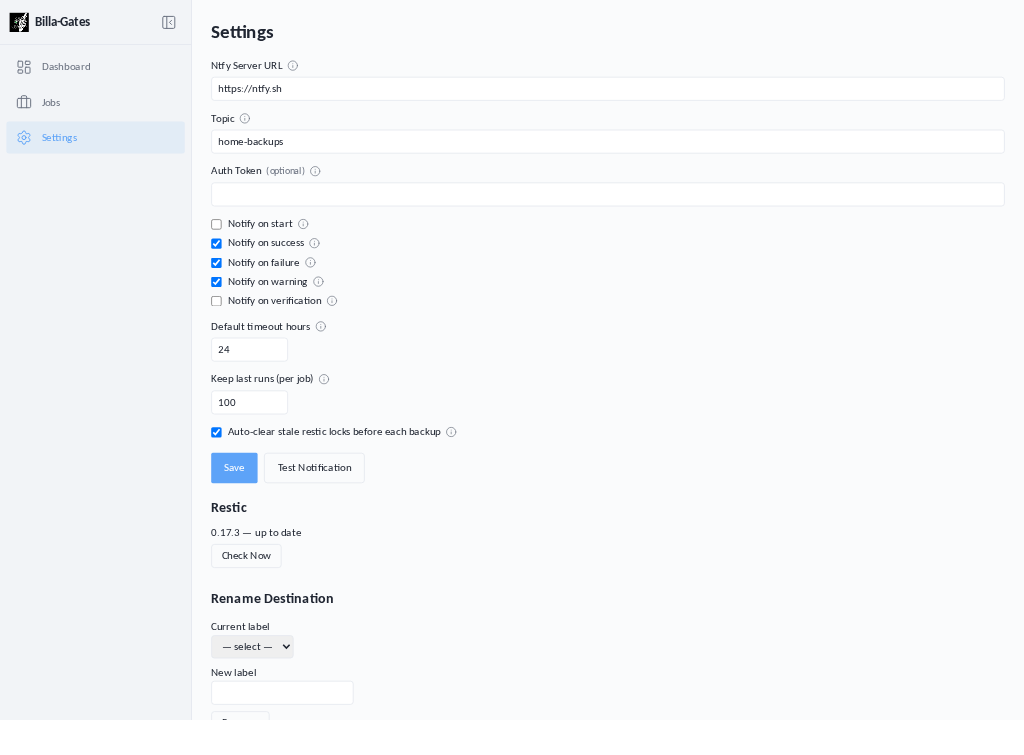
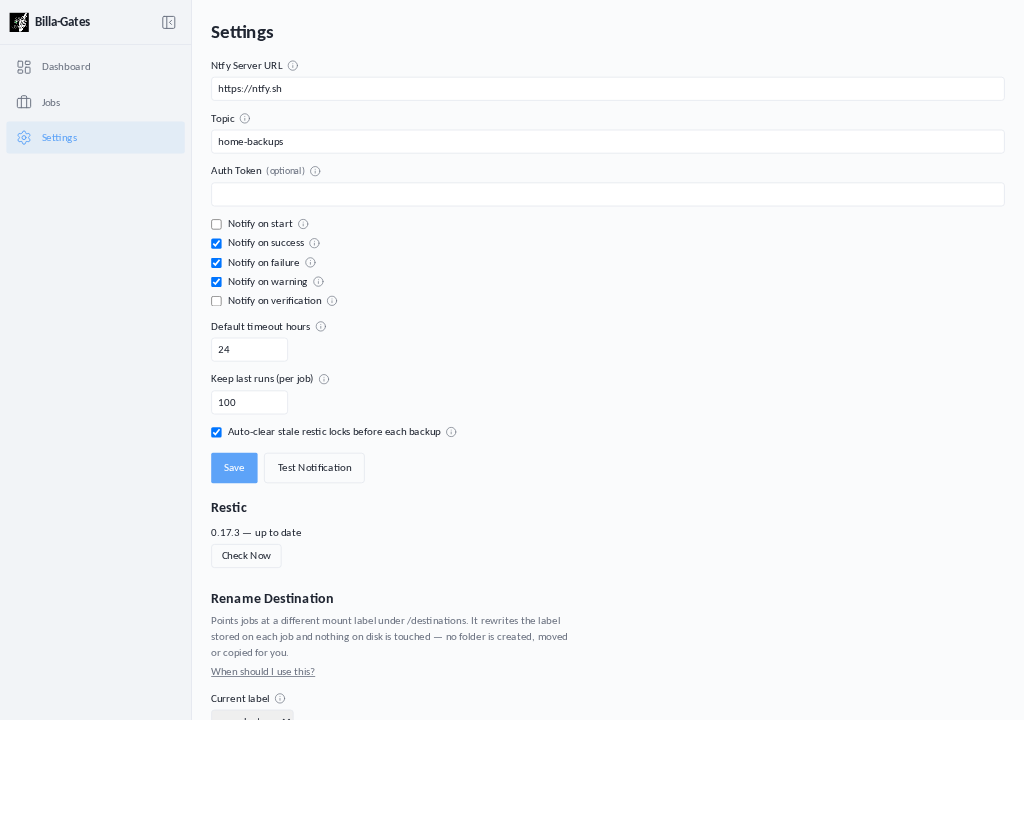
add documentation to rename dest option in settings

Changed region(s): [[0.1875, 0.0305, 0.5625, 0.9139], [0.0, 0.0, 0.0938, 0.1828]]

diff --git a/frontend/src/pages/Settings.tsx b/frontend/src/pages/Settings.tsx
@@ -63,6 +63,17 @@ const HELP: Record<string, FieldHelp> = {
     description:
       'Runs restic unlock at the start of every backup so a lock left behind by an abrupt termination (OOM, container restart) does not block all future runs.',
   },
+  renameOldLabel: {
+    label: 'Current label',
+    description:
+      'The mount label the jobs point at today. Only labels mounted right now are listed, so a drive that has already been unplugged does not appear here.',
+  },
+  renameNewLabel: {
+    label: 'New label',
+    description:
+      'The mount label those jobs should point at from now on. It has to be mounted under /destinations, and must be one folder name — no slashes.',
+    example: 'wd-4tb',
+  },
 }
 
 export default function Settings() {
@@ -90,6 +101,9 @@ export default function Settings() {
   const [newLabel, setNewLabel] = useState('')
   const [renameResult, setRenameResult] = useState<string | null>(null)
   const [renameError, setRenameError] = useState<string | null>(null)
+  // The long-form help is collapsed; the one line that stops the destructive
+  // misreading ("it moves my data") is rendered unconditionally above it.
+  const [renameHelpOpen, setRenameHelpOpen] = useState(false)
   // Delay ntfy form rendering so rename section is findable before ntfy labels appear
   const [ntfyVisible, setNtfyVisible] = useState(false)
 
@@ -390,17 +404,119 @@ export default function Settings() {
         )}
 
         <div>
-          <h2 className="text-lg font-semibold mb-3">Rename Destination</h2>
-          <div className="space-y-2">
+          <h2 className="text-lg font-semibold mb-1">Rename Destination</h2>
+          {/* The action's name reads like a filesystem operation, which it is
+              not — it only repoints job rows at another mount label. Anyone
+              who reads it the other way loses nothing on disk but breaks every
+              later run, so the correction is stated before the controls and
+              cannot be collapsed away. */}
+          <p className="text-sm text-muted-foreground max-w-prose">
+            Points jobs at a different mount label under /destinations. It rewrites the label stored
+            on each job and nothing on disk is touched — no folder is created, moved or copied for
+            you.
+          </p>
+          <button
+            type="button"
+            aria-expanded={renameHelpOpen}
+            aria-controls="rename-help"
+            onClick={() => setRenameHelpOpen((open) => !open)}
+            className="text-sm underline text-muted-foreground hover:text-foreground mt-1"
+          >
+            {renameHelpOpen ? 'Hide the details' : 'When should I use this?'}
+          </button>
+          {renameHelpOpen && (
+            <div
+              id="rename-help"
+              className="mt-2 mb-3 border rounded p-3 text-sm max-w-prose space-y-3 bg-muted/40"
+            >
+              <div>
+                <h3 className="font-semibold">What it does</h3>
+                <ul className="list-disc pl-5 space-y-1">
+                  <li>
+                    Rewrites the mount label stored on every job that points at the old one, so
+                    later runs read and write under the new one.
+                  </li>
+                  <li>
+                    Takes hold on each job&apos;s next run. Run history and snapshots already
+                    recorded stay exactly as they are.
+                  </li>
+                  <li>
+                    Covers every job on that mount at once — there is no per-job choice, and no way
+                    to move only some of them.
+                  </li>
+                </ul>
+              </div>
+              <div>
+                <h3 className="font-semibold">What it does not do</h3>
+                <ul className="list-disc pl-5 space-y-1">
+                  <li>
+                    It creates, moves and renames nothing on disk. The old folder is left where it
+                    is, untouched.
+                  </li>
+                  <li>
+                    It copies no repository data. If the backups live somewhere else now, you move
+                    the repository folder over <em>yourself</em>, before pressing the button —{' '}
+                    <code>/destinations/&lt;old&gt;/&lt;job name&gt;</code> →{' '}
+                    <code>/destinations/&lt;new&gt;/&lt;job name&gt;</code>.
+                  </li>
+                  <li>
+                    It does not confirm a repository is really there. That surfaces on the next run,
+                    which stops at the repository step rather than starting a fresh empty repository
+                    — your snapshots are never silently discarded.
+                  </li>
+                  <li>
+                    It changes neither a job&apos;s name nor its repository password. Those two stay
+                    fixed for the life of the job.
+                  </li>
+                </ul>
+              </div>
+              <div>
+                <h3 className="font-semibold">When to use it</h3>
+                <ul className="list-disc pl-5 space-y-1">
+                  <li>
+                    The mount label itself changed — the drive is now mapped to /destinations/wd-4tb
+                    where it used to be /destinations/main.
+                  </li>
+                  <li>
+                    The repositories moved to another drive, which is mounted under a label of its
+                    own.
+                  </li>
+                  <li>You simply want a tidier label than the one you picked back then.</li>
+                  <li>
+                    In all three cases this is the only route: a destination addresses the
+                    repository, so the job edit form keeps it fixed once the job is created.
+                  </li>
+                </ul>
+              </div>
+              <div>
+                <h3 className="font-semibold">Before you use it</h3>
+                <ol className="list-decimal pl-5 space-y-1">
+                  <li>
+                    Mount the new drive or folder at /destinations/&lt;new label&gt;. It has to be
+                    there already, or the request is turned down.
+                  </li>
+                  <li>
+                    Put the <code>.billa_gates_check</code> marker file at its root, or later runs
+                    stop at the mount probe.
+                  </li>
+                  <li>Bring each job&apos;s repository folder across, as described above.</li>
+                  <li>
+                    Pick a moment when no job on that mount is running — the request is turned down
+                    while one is in flight.
+                  </li>
+                </ol>
+              </div>
+            </div>
+          )}
+          <div className="space-y-2 mt-3">
             {destinations !== undefined && (
               <div>
-                <label htmlFor="old-label" className="block text-sm font-medium">
-                  Current label
-                </label>
+                <FieldLabel htmlFor="old-label" help={HELP.renameOldLabel} />
                 <select
                   id="old-label"
                   value={oldLabel}
                   onChange={(e) => setOldLabel(e.target.value)}
+                  aria-describedby={helpId('old-label')}
                   className="border rounded px-2 py-1 text-sm"
                 >
                   <option value="">— select —</option>
@@ -413,14 +529,13 @@ export default function Settings() {
               </div>
             )}
             <div>
-              <label htmlFor="new-label" className="block text-sm font-medium">
-                New label
-              </label>
+              <FieldLabel htmlFor="new-label" help={HELP.renameNewLabel} />
               <input
                 id="new-label"
                 type="text"
                 value={newLabel}
                 onChange={(e) => setNewLabel(e.target.value)}
+                aria-describedby={helpId('new-label')}
                 className="border rounded px-2 py-1 text-sm"
               />
             </div>

diff --git a/frontend/src/pages/Settings.test.tsx b/frontend/src/pages/Settings.test.tsx
@@ -311,6 +311,97 @@ describe('Settings', () => {
     })
   })
 
+  describe('rename destination help', () => {
+    // The action's name reads like a filesystem rename, which it is not: it
+    // only repoints job rows. Someone who believes it moves their repository
+    // fires it and every later run stops at the repository step. The page has
+    // to say so before the click, not after.
+    it('always shows that nothing on disk is touched', async () => {
+      renderWithProviders(<Settings />)
+      await waitFor(() =>
+        expect(screen.getByText(/nothing on disk is touched/i)).toBeInTheDocument()
+      )
+    })
+
+    it('keeps the long-form help collapsed behind a toggle', async () => {
+      renderWithProviders(<Settings />)
+      const toggle = await screen.findByRole('button', { name: /when should i use this/i })
+      expect(toggle).toHaveAttribute('aria-expanded', 'false')
+      expect(screen.queryByRole('heading', { name: 'What it does' })).not.toBeInTheDocument()
+    })
+
+    it('reveals what it does, what it does not do, and when to use it', async () => {
+      const user = userEvent.setup()
+      renderWithProviders(<Settings />)
+      const toggle = await screen.findByRole('button', { name: /when should i use this/i })
+      await user.click(toggle)
+      expect(toggle).toHaveAttribute('aria-expanded', 'true')
+      expect(screen.getByRole('heading', { name: 'What it does' })).toBeInTheDocument()
+      expect(screen.getByRole('heading', { name: 'What it does not do' })).toBeInTheDocument()
+      expect(screen.getByRole('heading', { name: 'When to use it' })).toBeInTheDocument()
+      expect(screen.getByRole('heading', { name: 'Before you use it' })).toBeInTheDocument()
+    })
+
+    it('says the repository data has to be moved by hand', async () => {
+      const user = userEvent.setup()
+      renderWithProviders(<Settings />)
+      await user.click(await screen.findByRole('button', { name: /when should i use this/i }))
+      expect(screen.getByText(/move the repository folder/i)).toBeInTheDocument()
+      expect(screen.getByText(/yourself/i)).toBeInTheDocument()
+    })
+
+    it('says the marker file must be present at the new mount', async () => {
+      const user = userEvent.setup()
+      renderWithProviders(<Settings />)
+      await user.click(await screen.findByRole('button', { name: /when should i use this/i }))
+      expect(screen.getByText(/\.billa_gates_check/)).toBeInTheDocument()
+    })
+
+    it('says the job form cannot change a destination, which is why this exists', async () => {
+      const user = userEvent.setup()
+      renderWithProviders(<Settings />)
+      await user.click(await screen.findByRole('button', { name: /when should i use this/i }))
+      expect(screen.getByText(/job edit form/i)).toBeInTheDocument()
+    })
+
+    it('collapses again when the toggle is clicked a second time', async () => {
+      const user = userEvent.setup()
+      renderWithProviders(<Settings />)
+      const toggle = await screen.findByRole('button', { name: /when should i use this/i })
+      await user.click(toggle)
+      await user.click(toggle)
+      expect(toggle).toHaveAttribute('aria-expanded', 'false')
+      expect(screen.queryByRole('heading', { name: 'What it does' })).not.toBeInTheDocument()
+    })
+
+    it('does not add a second control that reads as the Rename button', async () => {
+      // The disclosure sits next to the Rename button; if its name matched
+      // /rename/i every rename test would break on an ambiguous query.
+      renderWithProviders(<Settings />)
+      await waitFor(() => screen.getByRole('button', { name: /rename/i }))
+      expect(screen.getAllByRole('button', { name: /rename/i })).toHaveLength(1)
+    })
+
+    it('links the current-label field to help text via aria-describedby', async () => {
+      renderWithProviders(<Settings />)
+      // Exact labels here on purpose: the loose patterns the older rename
+      // tests use ("to") also match the ntfy Auth Token label once that form
+      // renders.
+      const select = await screen.findByLabelText('Current label')
+      const id = select.getAttribute('aria-describedby')
+      expect(id).toBeTruthy()
+      expect(document.getElementById(id!)?.textContent).toMatch(/mount|label/i)
+    })
+
+    it('links the new-label field to help text via aria-describedby', async () => {
+      renderWithProviders(<Settings />)
+      const input = await screen.findByLabelText('New label')
+      const id = input.getAttribute('aria-describedby')
+      expect(id).toBeTruthy()
+      expect(document.getElementById(id!)?.textContent).toMatch(/mount|label/i)
+    })
+  })
+
   describe('default job timeout', () => {
     it('shows default_job_timeout_hours field', async () => {
       renderWithProviders(<Settings />)
